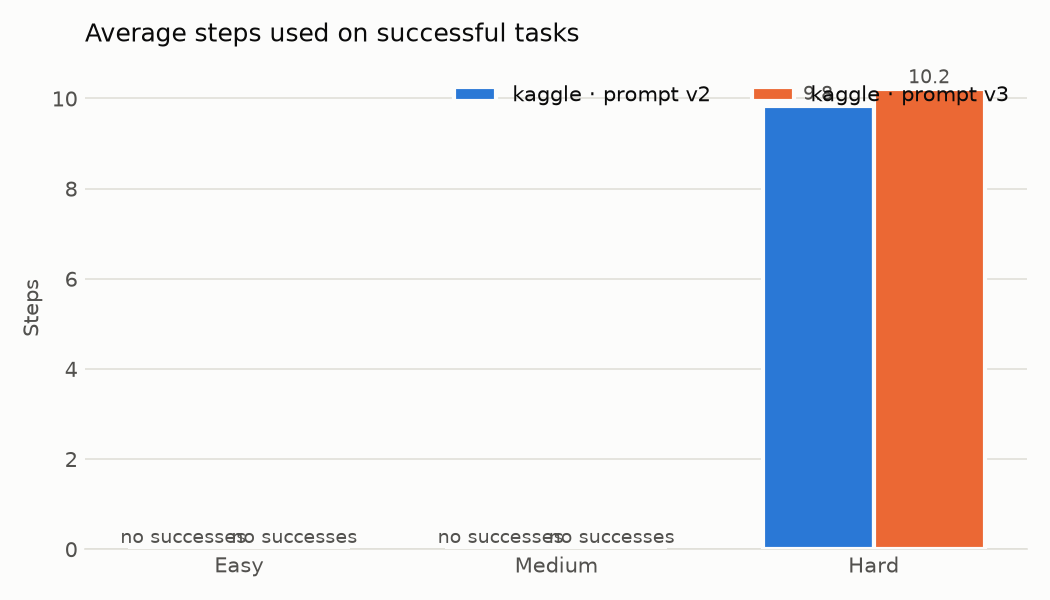
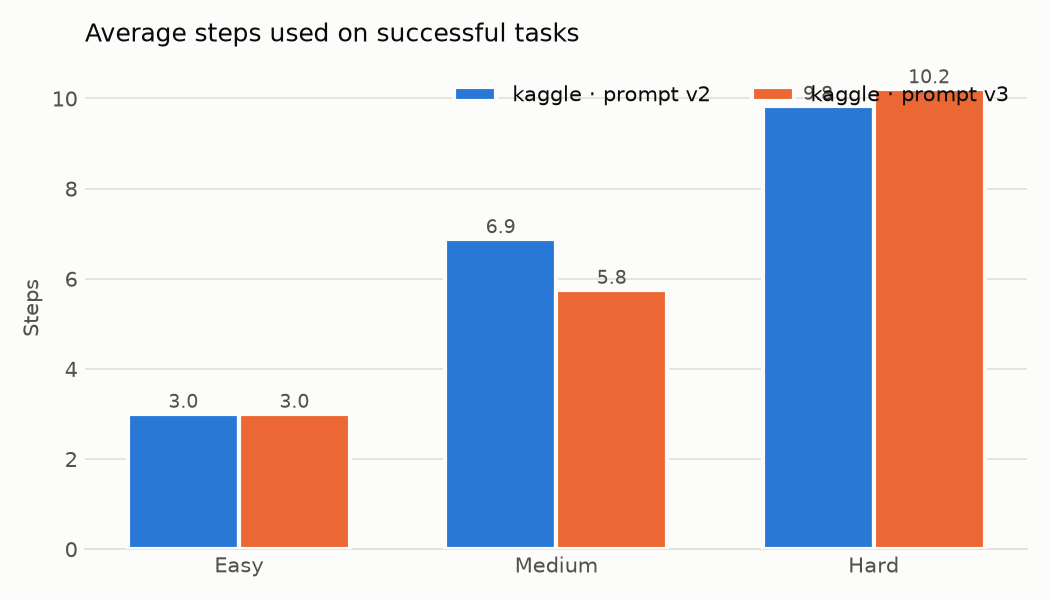
New room scenes deployed and fixed some errors

Changed region(s): [[0.4267, 0.36, 0.64, 0.93], [0.1219, 0.66, 0.3352, 0.93]]

diff --git a/eval/show_episode.py b/eval/show_episode.py
@@ -1,0 +1,86 @@
+"""Show what the VLM told the robot, step by step, in readable form.
+
+Usage (from the repo root, project venv):
+    my_env\\Scripts\\python.exe eval\\show_episode.py              # the last episode
+    my_env\\Scripts\\python.exe eval\\show_episode.py --last 5     # the last 5 episodes
+    my_env\\Scripts\\python.exe eval\\show_episode.py --list 20    # one line per episode (last 20)
+    my_env\\Scripts\\python.exe eval\\show_episode.py ep_20261112_171618
+
+Reads bridge/logs/episodes.csv and steps.csv. The camera image the model saw at each step is in
+bridge/logs/frames/<episode_id>/<step>.jpg.
+"""
+from __future__ import annotations
+
+import argparse
+import csv
+import sys
+from pathlib import Path
+
+ROOT = Path(__file__).resolve().parent.parent
+LOGS = ROOT / "bridge" / "logs"
+
+
+def read(name: str) -> list[dict]:
+    p = LOGS / name
+    if not p.exists():
+        sys.exit(f"{p} not found - run an episode first")
+    with open(p, encoding="utf-8", newline="") as f:
+        return list(csv.DictReader(f))
+
+
+def call(s: dict) -> str:
+    args = ", ".join(s[k] for k in ("target", "object", "location") if s.get(k))
+    return f"{s['action']}({args})"
+
+
+def show(ep: dict, steps: list[dict]) -> None:
+    ok = ep["success"] == "True"
+    print("=" * 100)
+    print(f"{ep['episode_id']}   [{ep['task_id']}]   {ep['backend']} / {ep['model']}   prompt {ep.get('prompt') or '-'}")
+    print(f"TASK:   {ep['task']}")
+    print(f"RESULT: {'SUCCESS' if ok else 'FAILED'} in {ep['steps']} steps - {ep['reason']}")
+    print("-" * 100)
+    for s in steps:
+        res = "" if s["action"] == "done" else ("OK   " if s["unity_success"] == "True" else "FAIL ")
+        res += s.get("unity_reason", "")
+        valid = "" if s.get("valid") != "False" else "  [INVALID reply -> fallback]"
+        print(f"{int(s['step']) + 1:>2}. {call(s):<44} {s['latency_ms']:>6} ms{valid}")
+        if s.get("thought"):
+            print(f"      thought: {s['thought']}")
+        if res:
+            print(f"      robot:   {res}")
+        if s.get("error"):
+            print(f"      error:   {s['error']}")
+    frames = LOGS / "frames" / ep["episode_id"]
+    if frames.exists():
+        print(f"frames: {frames}")
+
+
+def main() -> None:
+    sys.stdout.reconfigure(encoding="utf-8")
+    ap = argparse.ArgumentParser()
+    ap.add_argument("episode", nargs="?", help="episode id (default: the last one)")
+    ap.add_argument("--last", type=int, default=1, help="show the last N episodes")
+    ap.add_argument("--list", type=int, metavar="N", help="list the last N episodes, one line each")
+    a = ap.parse_args()
+
+    episodes = read("episodes.csv")
+    if a.list:
+        for e in episodes[-a.list:]:
+            print(f"{e['episode_id']}  {e['task_id']:<6} {'OK  ' if e['success'] == 'True' else 'FAIL'} "
+                  f"{e['steps']:>2} steps  {e['task'][:70]}")
+        return
+
+    by_ep: dict[str, list[dict]] = {}
+    for s in read("steps.csv"):
+        by_ep.setdefault(s["episode_id"], []).append(s)
+
+    chosen = [e for e in episodes if e["episode_id"] == a.episode] if a.episode else episodes[-a.last:]
+    if not chosen:
+        sys.exit(f"episode {a.episode} not found (use --list to see ids)")
+    for e in chosen:
+        show(e, sorted(by_ep.get(e["episode_id"], []), key=lambda s: int(s["step"])))
+
+
+if __name__ == "__main__":
+    main()

diff --git a/bridge/prompts.py b/bridge/prompts.py
@@ -22,12 +22,21 @@ image + item locations, reply with the exact name.
 v3.2 (12 Nov): "locations" = named spots on the floor (Unity kind "location"):
 home_base (where the robot started; "base", "home", "start") and marked_spot (a floor
 point the user clicked). move_to stands on it; place puts the item on the floor there.
+
+v3.3 (12 Nov): "move this to there" (mug -> marked_spot) ended holding the mug at the spot.
+Rule: move/put/bring X to Y is done only when X is PLACED at Y, not while holding it.
+
+v3.4 (12 Nov, rooms 05/06): "move this to there" with "this" = wicker_basket (furniture)
+-> tried pick(wicker_basket), then carried the red_book inside it instead; "open the door"
+(decor, not in the list) -> "done" and was logged as success. Rule: furniture cannot be
+carried, objects outside the list cannot be used -> reply done with a thought starting
+"CANNOT:" (Unity then logs the episode as not done).
 """
 from __future__ import annotations
 
 from typing import Any
 
-PROMPT_VERSION = "v3.2"
+PROMPT_VERSION = "v3.4"
 
 SYSTEM_PROMPT = """You control a robot in a space habitat. You see the robot's camera image.
 Each turn choose exactly ONE next action from: move_to, pick, place, open, close, look_around, done.
@@ -49,11 +58,13 @@ How to decide:
 
 Rules:
 - Only use object names from the provided list. Never invent names.
+- Only items can be picked up and carried. Surfaces and containers are furniture: they never move. If the task asks to carry furniture, or needs an object that is not in the list (e.g. a door, a window), do NOT do something else instead: reply "done" with a thought that starts with "CANNOT:" and says why.
 - Do exactly what the task asks, nothing more. Do not start other tasks.
 - Never undo progress: do not put down an item the task asked you to pick up, do not take an item out of where the task asked you to put it, do not close a container the task asked you to open.
 - To pick, place, open or close something you must be near it (move_to it first).
 - A container must be open before placing items into it or picking items from it.
 - If an action failed, read the reason and fix the cause instead of repeating it.
+- "Move / put / bring / take X to Y" is complete only when X has been PLACED at Y. Holding X near Y is not enough. "Pick up X" is complete while holding X.
 - The robot holds ONE item at a time. For several items: pick one -> move_to its destination -> place it -> then go back for the next.
 - If you are holding an item and you are near the place the task wants it, place it NOW (open the container first if it is closed). Do not walk away while holding it.
 - Tasks may describe objects by name, colour or position (e.g. "the purple cabinet", "the canister on the table"). Use the image and ITEM LOCATIONS to decide which listed object is meant, then use its exact name in your reply. Before a place, check the location is the one the task means.

diff --git a/eval/analyze.py b/eval/analyze.py
@@ -51,6 +51,8 @@ def classify_failure(ep: dict, steps: list[dict]) -> str:
         return "infrastructure (bridge/model unreachable)"
     if "stopped by user" in r:
         return "stopped by user"
+    if "cannot do this" in r:
+        return "model said the task is not possible"
     if "model said done" in r:
         return "said done too early / wrong result"
     if "step limit" in r:
@@ -150,9 +152,9 @@ def main() -> None:
         )
 
     # ---------------------------------------------------------------- per task
-    lines += ["", "## Per task", "", "| Task | Tier | Instruction | " + " | ".join(backends) + " |",
-              "|---|---|---|" + "---|" * len(backends)]
-    for tid, t in sorted(tasks.items(), key=lambda kv: (TIERS.index(kv[1]["tier"]), kv[0])):
+    lines += ["", "## Per task", "", "| Room | Task | Tier | Instruction | " + " | ".join(backends) + " |",
+              "|---|---|---|---|" + "---|" * len(backends)]
+    for tid, t in sorted(tasks.items(), key=lambda kv: (kv[1]["room"], TIERS.index(kv[1]["tier"]), kv[0])):
         cells = []
         for b in backends:
             eps = [e for e in episodes if e["backend"] == b and e["task_id"] == tid]
@@ -163,7 +165,19 @@ def main() -> None:
             avg = sum(e["n_steps"] for e in eps) / len(eps)
             cells.append(f"{'✅' if ok == len(eps) else '❌' if ok == 0 else '◐'} {ok}/{len(eps)} · {avg:.0f} steps")
         if any(c != "–" for c in cells):
-            lines.append(f"| {tid} | {t['tier']} | {t['task']} | " + " | ".join(cells) + " |")
+            lines.append(f"| {t['room']} | {tid} | {t['tier']} | {t['task']} | " + " | ".join(cells) + " |")
+
+    # ---------------------------------------------------------------- per room (when more than one room was run)
+    rooms = sorted({tasks[e["task_id"]]["room"] for e in episodes})
+    if len(rooms) > 1:
+        lines += ["", "## Per room", "", "| Room | " + " | ".join(backends) + " |", "|---|" + "---|" * len(backends)]
+        for room in rooms:
+            cells = []
+            for b in backends:
+                eps = [e for e in episodes if e["backend"] == b and tasks[e["task_id"]]["room"] == room]
+                ok = sum(e["ok"] for e in eps)
+                cells.append(f"{ok}/{len(eps)} ({pct(ok, len(eps))})" if eps else "–")
+            lines.append(f"| {room} | " + " | ".join(cells) + " |")
 
     # ---------------------------------------------------------------- failures
     lines += ["", "## Failure analysis", ""]

diff --git a/PLAN.md b/PLAN.md
@@ -19,9 +19,9 @@ my_env\Scripts\python.exe -m pip install -r requirements.txt
 - [x] Unity Hub + Unity 6 (6000.6.7f1), URP project in `Unity (VLM Project)/`.
 - [x] Python 3.11 venv `my_env/`; bridge dependencies installed from `requirements.txt` (exact versions in `requirements.lock.txt`).
 - [x] `.gitignore` created for the real folder names (Unity `Library/`, `Logs/`, `my_env/`, `.env`, `logs/` …).
-- [ ] Kaggle account → **phone-verify** it (needed to turn on Internet in notebooks).
-- [ ] Optional: Google AI Studio → Gemini API key (backup backend C).
-- [ ] `git init` → first commit (check `git status` shows no `Library/`, `my_env/` or `.env`).
+- [x] Kaggle account → **phone-verify** it (needed to turn on Internet in notebooks).
+- [x] Optional: Google AI Studio → Gemini API key (backup backend C).
+- [x] `git init` → first commit (check `git status` shows no `Library/`, `my_env/` or `.env`).
 
 ---
 
@@ -54,13 +54,13 @@ To test without a model, first run `$env:VLM_BACKEND="mock"` (PowerShell) or `se
 
 ## Phase 3 — Kaggle VLM backend (B) ✅ (done 6 Nov)
 
-- [ ] kaggle.com → *Create* → *New Notebook* → *File → Import Notebook* → `kaggle/ollama_server.ipynb`.
-- [ ] Session options: **GPU T4 x2**, **Internet On** → *Run All*.
-- [ ] Cell 4 (local image test) should list the red/purple objects. Note the 2nd-call latency.
-- [ ] Copy the printed `KAGGLE_TUNNEL_URL=...` line into `bridge/.env` (copy `.env.example` → `.env` first).
-- [ ] `config.yaml`: `active_backend: kaggle` → restart the bridge → `fake_unity.py`.
-- [ ] Optional: `fake_unity.py --image <a screenshot of the scene>` to see how the model reads a real frame.
-- [ ] **Stop the Kaggle session when finished** (Run → Stop session).
+- [x] kaggle.com → *Create* → *New Notebook* → *File → Import Notebook* → `kaggle/ollama_server.ipynb`.
+- [x] Session options: **GPU T4 x2**, **Internet On** → *Run All*.
+- [x] Cell 4 (local image test) should list the red/purple objects. Note the 2nd-call latency.
+- [x] Copy the printed `KAGGLE_TUNNEL_URL=...` line into `bridge/.env` (copy `.env.example` → `.env` first).
+- [x] `config.yaml`: `active_backend: kaggle` → restart the bridge → `fake_unity.py`.
+- [~] Skipped (real Unity frames used instead): `fake_unity.py --image <a screenshot of the scene>` to see how the model reads a real frame.
+- [x] **Stop the Kaggle session when finished** (Run → Stop session).
 
 **Checkpoint 3:** `fake_unity.py` gets `valid=True` replies from `qwen3-vl:8b` on Kaggle, and the Kaggle monitor cell shows the requests arriving.
 
@@ -119,14 +119,15 @@ Scope (9 Nov): Kaggle (B) + Gemini (C) only; no local model, no Groq.
 - [x] Smarter placement (`Interactable.NextPlacePosition`): free-spot grid search on the surface/container so placed items don't overlap.
 - [x] `eval/analyze.py`: `results.md` (summary per backend and tier, per-task matrix, failure categories, failed-episode list) + `charts/success_by_tier.png`, `charts/steps_by_tier.png`. Options `--since`, `--latest`. Tested on the Phase 6 runs.
 - [x] Kaggle notebook: tunnel cell now has a real 60 s timeout (reader thread), tunnel check reports HTTP errors.
-- [ ] Unity: run **HabitatVLM → Setup Interactables and Robot** once (adds SceneReset + TaskRunner), save the scene.
-- [ ] Run the full suite on **B** (Kaggle, primary) and on **C** (watch the daily rate limit; split across days if needed).
+- [x] Unity: run **HabitatVLM → Setup Interactables and Robot** once (adds SceneReset + TaskRunner), save the scene.
+- [~] Full suite on **B** done (v2, v3); on **C** (Gemini) still to do (watch the daily rate limit; split across days if needed).
 - [x] Kaggle suite, prompt v2 (12 Nov): **22/24** (Easy 8/8, Medium 8/8, Hard 6/8), 4.7 s/step, 0 invalid. Failures: T08 wrong cabinet (left/right), T21 walked away holding an item (step limit). Waste: T16 6 extra move_to after done. Unity paused when unfocused → `Application.runInBackground = true` in AgentLoop.
 - [x] Prompt v3 (task parts checked as done/not done, one item at a time, "holding + near destination = place now", match task words to names, warnings for 3x repeats and move_to-only wandering). `episodes.csv` now logs `prompt`; analyze.py compares versions (`--tier hard`).
 - [x] Kaggle suite, prompt v3 (12 Nov): **20/24** (Easy 7/8, Medium 8/8 with fewer wasted steps, Hard 5/8). T21 fixed; T12 regressed (exact-name rule rejected "purple cabinet"); T22/T23 failed on place-from-afar loops.
 - [x] Prompt v3.1: colour/position descriptions allowed again (resolve via image + item locations, reply with exact name).
 - [ ] Optional v4: auto-approach in pick/place/open/close (decision pending).
-- [ ] Re-run the Hard tier with v3 on Kaggle → compare with v2 (ablation for the report). If v3 is not worse, re-run Easy/Medium too.
+- [x] ~~Re-run Hard tier with v3~~ → full suite was run with v3 instead (20/24, above).
+- [ ] Re-run the full suite with the current prompt (v3.2) → final Kaggle numbers.
 - [ ] Review the failures: categorise them (wrong object, wrong order, navigation, invalid JSON) and note 3 lessons.
 - [ ] Record a 2–3 minute demo video (OBS Studio): split view of the robot camera, the scene, and the bridge log.
 - [ ] Write `README.md`: what it is, architecture diagram, setup steps, how to switch backends, results, limitations.
@@ -145,21 +146,25 @@ Scope (9 Nov): Kaggle (B) + Gemini (C) only; no local model, no Groq.
 - [x] Point+Say: click "this" (and "there"), type "put this there"; names are added to the command for the VLM.
 - [x] Keyboard debug keys only in Tasks mode; its help box hidden by default (H).
 - [x] Locations (12 Nov, after user test): `home_base` at the robot's start ("return to base" failed: no such object), `marked_spot` from floor clicks in Point+Say ("this"/"there" could only be objects). Validator + prompt v3.2. "Will send" preview in Point+Say.
-- [ ] User test in Unity: each mode once (see checklist in chat 12 Nov). Record a short clip of each for the demo video.
+- [x] User test in Unity (12 Nov): Point+Say toolbox → marked_spot OK (5 steps), Text "blue canister in left cabinet" OK (7 steps); click fix for the invisible front wall. Still to try: return-to-base, Click mode near the table.
+- [ ] Record a short clip of each mode for the demo video.
 
 ---
 
 ## Phase 9 — Any room: generalisation + 5 new test rooms (added 9 Nov)
 
 Goal (SPEC §5.6, option A): the same code works in any room built from the supported object types; only the scene changes.
-- [ ] Room layout files `rooms/room_XX.json` (room size, objects: name, kind, primitive, position, rotation, size, colour, door direction) + a general **HabitatVLM → Build Room from Layout** editor tool. Rebuild the current room as `room_01` and confirm nothing changed.
-- [ ] Objects describe themselves: `HabitatSetup` scans the scene for `Interactable`s instead of a fixed name list; remove `object_kinds` from `bridge/config.yaml` (Unity sends kinds).
-- [ ] NavMesh rebuilt automatically at Play (`NavMeshSurface.BuildNavMesh`), so moved furniture needs no manual bake.
-- [ ] Skills handle rotated furniture (object's own axes) and free-standing cabinets (door direction from the container).
+- [x] Layout files `Assets/Rooms/room_XX.json` (room size, colours, robot start, objects: name, type surface/container/item/obstacle, pos, size, colour, door facing, item host) + **HabitatVLM → Build Rooms from Layouts** (`RoomBuilder.cs`): one scene per room in `Assets/Scenes/Rooms/`, NavMesh baked and saved, AgentManager wired with the room's task file. Room 01 kept as is (not rebuilt).
+- [x] Objects describe themselves: `HabitatSetup` scans the scene for `Interactable`s (room-01 name table only as a fallback); Unity sends kinds, so `config.yaml object_kinds` is no longer needed for new rooms.
+- [x] NavMesh baked by the room builder (rebuild the room after editing its layout).
+- [x] Cabinets on any wall: `facing` in the layout; the robot always approaches a container from its door side.
 - [ ] Generic keyboard debug (pick any object from a list) instead of fixed keys.
-- [ ] Build **5 new rooms** (`room_02` … `room_06`, space-habitat themes: storage bay, lab, galley, crew cabin, airlock), each with its own scene and `Assets/Tasks/tasks_room0X.json`.
-- [ ] Keyboard check in each new room, then the agent on 2–3 tasks per room (Kaggle).
-- [ ] Add per-room success rates to the results table (`eval/analyze.py`).
+- [x] 3 new rooms (12 Nov; scope cut from 5 to 3 by the user): `room_02` storage bay (B01–B09), `room_03` science lab (L01–L09), `room_04` galley (G01–G09); 9 tasks each (3/3/3), incl. colour references and items starting inside closed cabinets. Layout check script passed.
+- [x] 2 rooms from the user's reference photos (12 Nov): `room_05` study corner (Img 1: desk, plant, pencil cup, books, lamp, big box, laundry basket; S01–S09) and `room_06` bedroom (Img 2: bed + pillows, nightstand, dresser, storage tub with lid, wicker basket, moving boxes, suitcase; R01–R09). Stylised from primitives. RoomBuilder gained styles (table, bed, tub with a hinged lid, open-top basket), decor (window, picture, door, lamp with light, plant, books; no colliders, not interactable), composite items (plant, books) and per-room light colour.
+- [ ] Rebuild all rooms (HabitatVLM → Build Rooms from Layouts) and run each room's 9 tasks.
+- [x] First test of rooms 05/06 (12 Nov): R01 OK, Point moves OK. Fixes: prompt v3.4 (furniture can't be carried; impossible tasks -> done with "CANNOT:" and logged as not done; pointed furniture labelled in the Point note); move_to only picks stand points with a complete path and snaps the robot back onto the NavMesh (was "no path to wicker_basket" after standing at a wall).
+- [ ] User: Build Rooms from Layouts in Unity → open each room → Click mode check → suite per room on Kaggle.
+- [x] Per-room success rates in `eval/analyze.py` (Room column + Per room table).
 
 **Checkpoint 9:** The unchanged code completes tasks in at least 4 of the 6 rooms; results reported per room.
 

diff --git a/eval/results.md b/eval/results.md
@@ -1,38 +1,54 @@
 # HabitatVLM results
 
-Episodes: 16  ·  tasks: 8  ·  filter: since 2026-11-12T10:10:30
+Episodes: 48  ·  tasks: 24  ·  filter: since 2026-11-12T10:10:30
 
 ## Summary by backend
 
 | Backend | Model | Episodes | Success | Easy | Medium | Hard | Avg steps (successes) | Avg model latency / step | Invalid replies |
 |---|---|---|---|---|---|---|---|---|---|
-| kaggle · prompt v2 | qwen3-vl:8b-instruct | 8 | **6/8 (75%)** | – | – | 6/8 (75%) | 9.8 | 4.7 s | 0% (0/88) |
-| kaggle · prompt v3 | qwen3-vl:8b-instruct | 8 | **5/8 (62%)** | – | – | 5/8 (62%) | 10.2 | 5.0 s | 0% (0/95) |
+| kaggle · prompt v2 | qwen3-vl:8b-instruct | 24 | **22/24 (92%)** | 8/8 (100%) | 8/8 (100%) | 6/8 (75%) | 6.3 | 4.7 s | 0% (0/167) |
+| kaggle · prompt v3 | qwen3-vl:8b-instruct | 24 | **20/24 (83%)** | 7/8 (88%) | 8/8 (100%) | 5/8 (62%) | 5.9 | 4.9 s | 0% (0/165) |
 
 ## Per task
 
-| Task | Tier | Instruction | kaggle · prompt v2 | kaggle · prompt v3 |
-|---|---|---|---|---|
-| T07 | hard | Put the green canister in the right cabinet and close it | ✅ 1/1 · 8 steps | ✅ 1/1 · 7 steps |
-| T08 | hard | Put the red and blue canisters in the right cabinet | ❌ 0/1 · 14 steps | ❌ 0/1 · 14 steps |
-| T19 | hard | Put the red canister in the left cabinet and the blue canister in the right cabinet | ✅ 1/1 · 11 steps | ✅ 1/1 · 11 steps |
-| T20 | hard | Put the toolbox in the left cabinet and close it | ✅ 1/1 · 7 steps | ✅ 1/1 · 7 steps |
-| T21 | hard | Move both canisters from the shelf to the table | ❌ 0/1 · 15 steps | ✅ 1/1 · 15 steps |
-| T22 | hard | Put the toolbox in the right cabinet and the green canister on the shelf | ✅ 1/1 · 10 steps | ❌ 0/1 · 15 steps |
-| T23 | hard | Put the red, blue and green canisters in the left cabinet | ✅ 1/1 · 14 steps | ❌ 0/1 · 15 steps |
-| T24 | hard | Put the red canister in the left cabinet and make sure both cabinets are closed | ✅ 1/1 · 9 steps | ✅ 1/1 · 11 steps |
+| Room | Task | Tier | Instruction | kaggle · prompt v2 | kaggle · prompt v3 |
+|---|---|---|---|---|---|
+| room_01 | T01 | easy | Open the left cabinet | ✅ 1/1 · 3 steps | ✅ 1/1 · 3 steps |
+| room_01 | T02 | easy | Open the right cabinet | ✅ 1/1 · 3 steps | ✅ 1/1 · 3 steps |
+| room_01 | T03 | easy | Pick up the blue canister | ✅ 1/1 · 3 steps | ✅ 1/1 · 3 steps |
+| room_01 | T09 | easy | Pick up the red canister | ✅ 1/1 · 3 steps | ✅ 1/1 · 3 steps |
+| room_01 | T10 | easy | Pick up the green canister | ✅ 1/1 · 3 steps | ✅ 1/1 · 3 steps |
+| room_01 | T11 | easy | Pick up the toolbox | ✅ 1/1 · 3 steps | ✅ 1/1 · 3 steps |
+| room_01 | T12 | easy | Open the purple cabinet | ✅ 1/1 · 3 steps | ❌ 0/1 · 3 steps |
+| room_01 | T13 | easy | Pick up the canister that is on the table | ✅ 1/1 · 3 steps | ✅ 1/1 · 3 steps |
+| room_01 | T04 | medium | Put the red canister in the left cabinet | ✅ 1/1 · 7 steps | ✅ 1/1 · 6 steps |
+| room_01 | T05 | medium | Put the toolbox on the shelf | ✅ 1/1 · 6 steps | ✅ 1/1 · 6 steps |
+| room_01 | T06 | medium | Move the green canister from the table to the shelf | ✅ 1/1 · 6 steps | ✅ 1/1 · 6 steps |
+| room_01 | T14 | medium | Put the blue canister on the table | ✅ 1/1 · 6 steps | ✅ 1/1 · 6 steps |
+| room_01 | T15 | medium | Put the blue canister in the right cabinet | ✅ 1/1 · 6 steps | ✅ 1/1 · 6 steps |
+| room_01 | T16 | medium | Put the toolbox in the orange cabinet | ✅ 1/1 · 13 steps | ✅ 1/1 · 6 steps |
+| room_01 | T17 | medium | Open both cabinets | ✅ 1/1 · 5 steps | ✅ 1/1 · 4 steps |
+| room_01 | T18 | medium | Put the red canister on the table | ✅ 1/1 · 6 steps | ✅ 1/1 · 6 steps |
+| room_01 | T07 | hard | Put the green canister in the right cabinet and close it | ✅ 1/1 · 8 steps | ✅ 1/1 · 7 steps |
+| room_01 | T08 | hard | Put the red and blue canisters in the right cabinet | ❌ 0/1 · 14 steps | ❌ 0/1 · 14 steps |
+| room_01 | T19 | hard | Put the red canister in the left cabinet and the blue canister in the right cabinet | ✅ 1/1 · 11 steps | ✅ 1/1 · 11 steps |
+| room_01 | T20 | hard | Put the toolbox in the left cabinet and close it | ✅ 1/1 · 7 steps | ✅ 1/1 · 7 steps |
+| room_01 | T21 | hard | Move both canisters from the shelf to the table | ❌ 0/1 · 15 steps | ✅ 1/1 · 15 steps |
+| room_01 | T22 | hard | Put the toolbox in the right cabinet and the green canister on the shelf | ✅ 1/1 · 10 steps | ❌ 0/1 · 15 steps |
+| room_01 | T23 | hard | Put the red, blue and green canisters in the left cabinet | ✅ 1/1 · 14 steps | ❌ 0/1 · 15 steps |
+| room_01 | T24 | hard | Put the red canister in the left cabinet and make sure both cabinets are closed | ✅ 1/1 · 9 steps | ✅ 1/1 · 11 steps |
 
 ## Failure analysis
 
 **kaggle · prompt v2** — 2 failed episodes
 - said done too early / wrong result: 1
 - step limit: repeated failing actions: 1
-- failed robot actions (all episodes): container closed ×3, out of reach ×3, gripper full/empty ×3
+- failed robot actions (all episodes): out of reach ×7, container closed ×3, gripper full/empty ×3
 
-**kaggle · prompt v3** — 3 failed episodes
+**kaggle · prompt v3** — 4 failed episodes
+- said done too early / wrong result: 2
 - step limit: repeated failing actions: 2
-- said done too early / wrong result: 1
-- failed robot actions (all episodes): out of reach ×10, gripper full/empty ×7, container closed ×2
+- failed robot actions (all episodes): out of reach ×13, gripper full/empty ×7, container closed ×2
 
 ### Failed episodes (for review)
 
@@ -41,6 +57,7 @@ Episodes: 16  ·  tasks: 8  ·  filter: since 2026-11-12T10:10:30
 | kaggle · prompt v2 | T08 | 14 | model said done / OK red_canister in cabinet_right (actually at cabinet_right); NO blue_canister in cabinet_right (actually at cabinet_left) |
 | kaggle · prompt v2 | T21 | 15 | step limit (15) reached / NO red_canister on table (actually at shelf_a); NO blue_canister on table (actually held by robot) |
 | kaggle · prompt v3 | T08 | 14 | model said done / OK red_canister in cabinet_right (actually at cabinet_right); NO blue_canister in cabinet_right (actually held by robot) |
+| kaggle · prompt v3 | T12 | 3 | model said done / cabinet_left open (actually closed) |
 | kaggle · prompt v3 | T22 | 15 | step limit (15) reached / NO toolbox in cabinet_right (actually at table); OK green_canister on shelf_a (actually at shelf_a) |
 | kaggle · prompt v3 | T23 | 15 | step limit (15) reached / NO red_canister in cabinet_left (actually held by robot); NO blue_canister in cabinet_left (actually at shelf_a);  |
 

diff --git a/SPEC.md b/SPEC.md
@@ -145,7 +145,7 @@ Built automatically by the editor menu **HabitatVLM → Build Habitat Room** (`A
 - **The Unity scene is the single source of truth.** Every interactable object describes itself with an `Interactable` component (kind, snap point; containers also their door). At Play, Unity discovers the objects in the loaded room and sends their names and kinds to the bridge in `/episode/start`.
 - No script may name a specific object or position. Exceptions, clearly marked as test/demo tools: `HabitatBuilder` (builds room 01), the bridge `mock` script, `KeyboardDebug` presets, and per-room task files.
 - Supported object types: **item**, **surface**, **container** (hinged door), plus static **obstacles**. New interaction types (drawers, buttons…) need a new skill. That is by design: the VLM decides *what*, Unity decides *how*.
-- Generalisation is shown by testing the unchanged code in 5 additional rooms (PLAN Phase 9). Removing object names from the prompt (pure image grounding, "option B") stays a stretch goal.
+- Generalisation is shown by testing the unchanged code in 5 additional rooms built from JSON layouts (`Assets/Rooms/room_0X.json`, `RoomBuilder.cs`; PLAN Phase 9): storage bay, science lab, galley, plus a study corner and a bedroom modelled on the user's reference photos. Containers can be hinged-door cabinets, lidded tubs (lid hinges up about a horizontal axis) or open-top baskets (always open; open/close reports that there is nothing to open). Decor objects are visual only. Removing object names from the prompt (pure image grounding, "option B") stays a stretch goal.
 
 ### 5.7 Control modes and on-screen UI (added 12 Nov)
 
@@ -375,10 +375,10 @@ Unity, not the VLM, decides success at `done` or when the step limit is reached.
 
 ## 13. Acceptance criteria (MVP)
 
-- [ ] AC1. Robot completes all **Easy** tasks with backend B (Kaggle) at ≥ 80% success.
+- [x] AC1. *(Easy 8/8 with v2, 12 Nov)* Robot completes all **Easy** tasks with backend B (Kaggle) at ≥ 80% success.
 - [ ] AC2. At least one **Medium** task succeeds end-to-end on each of B (Kaggle) and C (Gemini).
 - [ ] AC3. Invalid VLM output never crashes Unity or the bridge. *(bridge side verified with malformed replies and a dead backend)*
-- [ ] AC4. `steps.csv` and `episodes.csv` are produced for every run.
+- [x] AC4. `steps.csv` and `episodes.csv` are produced for every run.
 - [ ] AC5. A results table compares the backends: success %, mean latency, invalid-output %.
 - [ ] AC6. The README explains setup from a fresh clone in ≤ 15 steps, with an architecture diagram and a demo video link.
 
